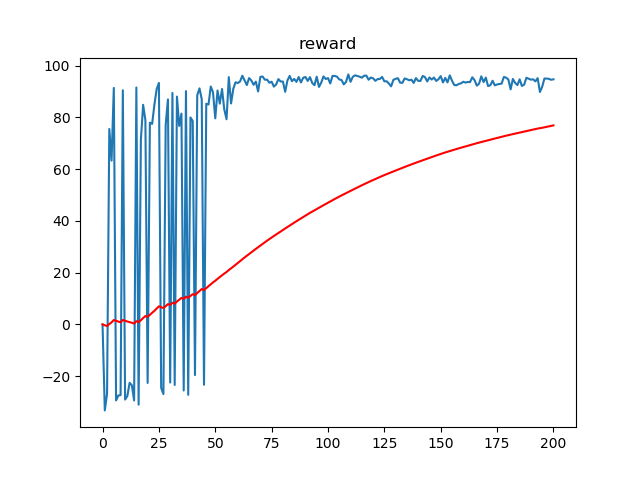
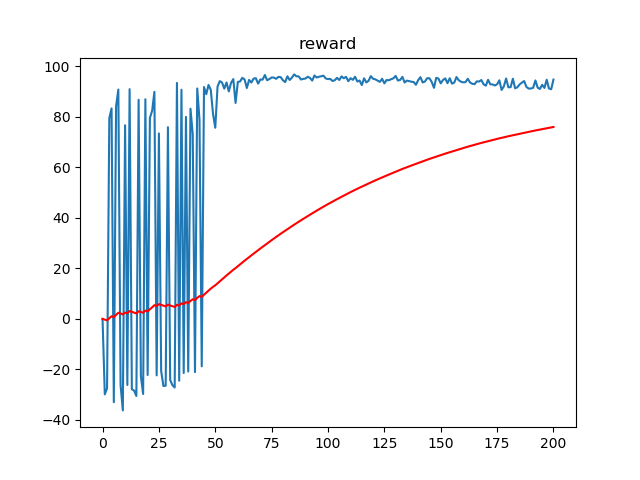
update ddpg

diff --git a/ddpg_mtcar.py b/ddpg_mtcar.py
@@ -146,9 +146,11 @@ def soft_update(target, source, tau):
 env = gym.make('MountainCarContinuous-v0')
 
 actor = Actor().cuda()
-actor_target = Actor().cuda()
 critic = Critic().cuda()
+actor_target = Actor().cuda()
 critic_target = Critic().cuda()
+actor_target.load_state_dict(actor.state_dict())
+critic_target.load_state_dict(critic.state_dict())
 
 actor_optimizer = optim.Adam(actor.parameters(), lr=cfg.lr)
 critic_optimizer = optim.Adam(critic.parameters(), lr=cfg.lr)
